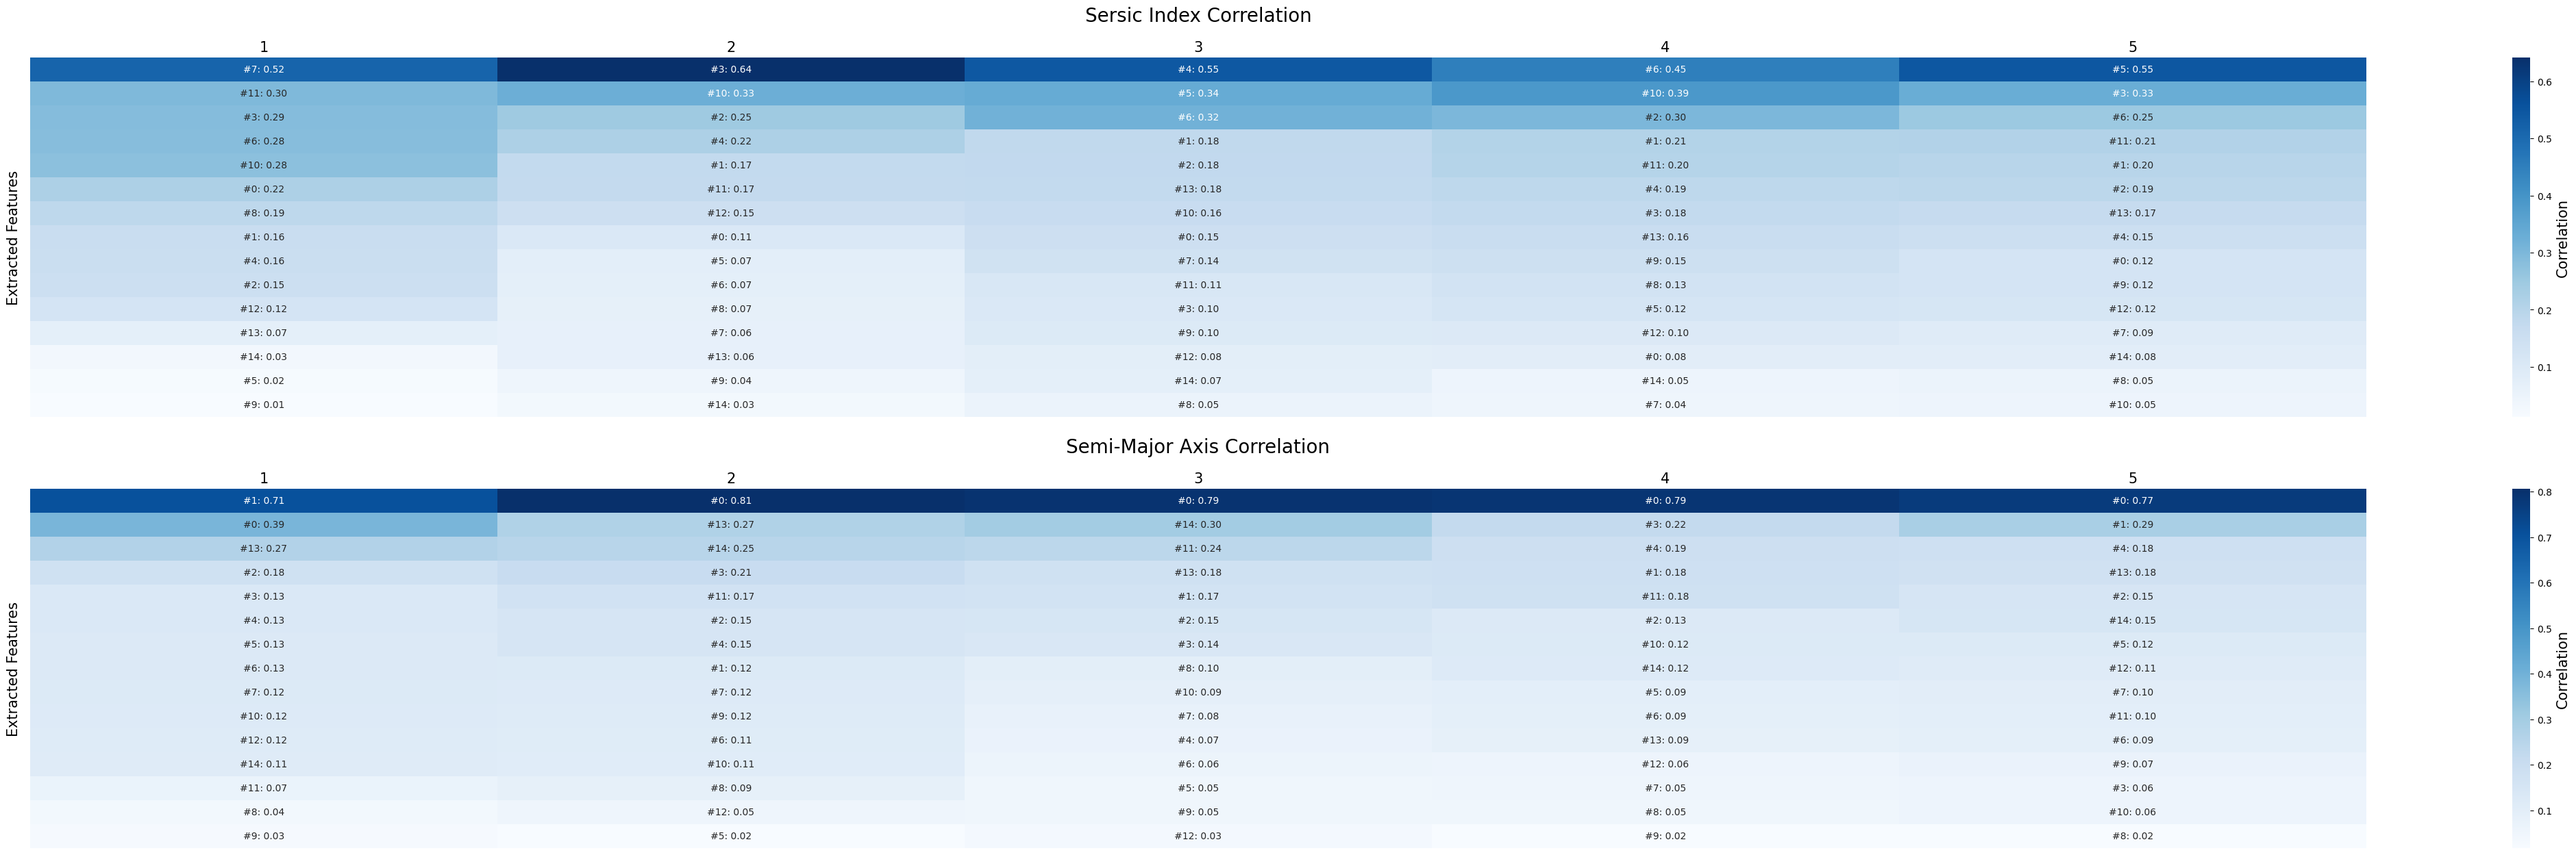
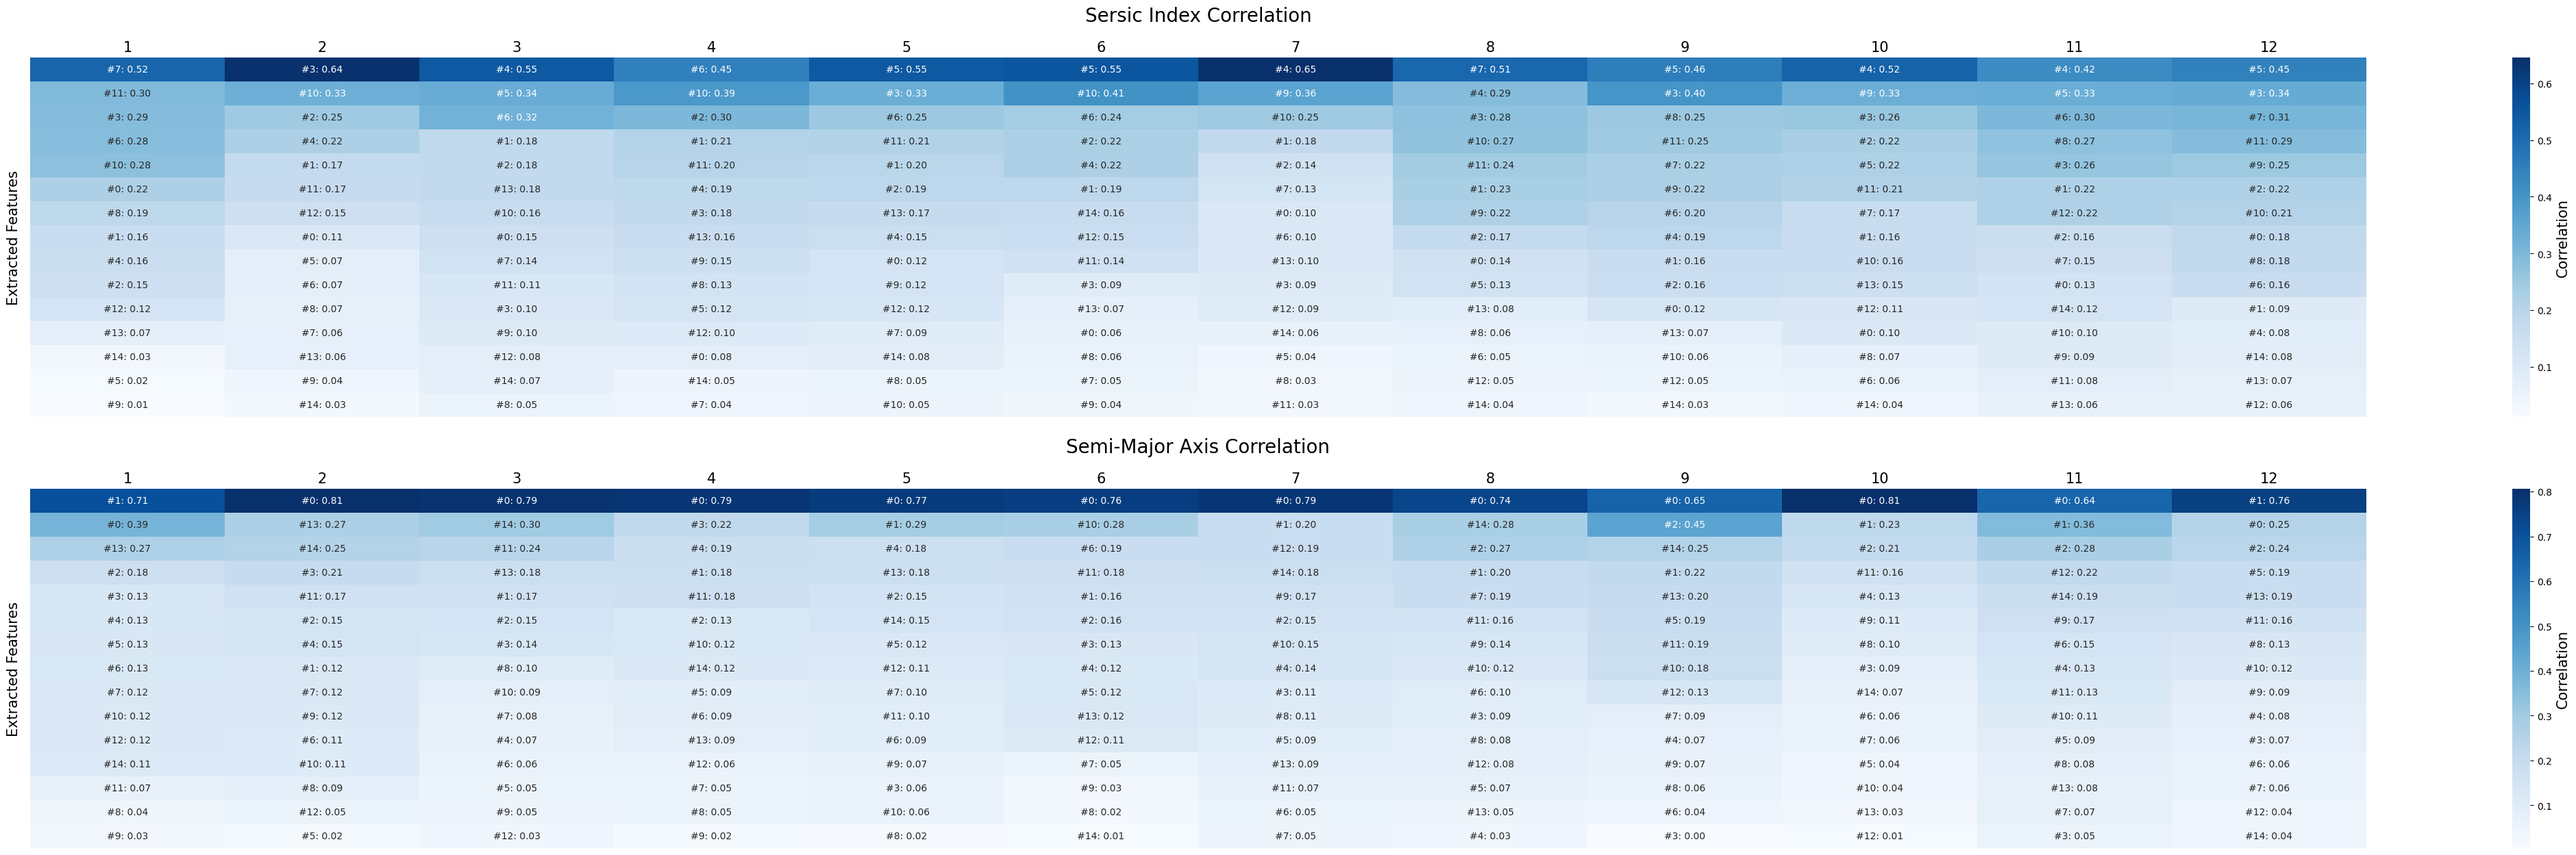
Code

diff --git a/correlation_flows.py b/correlation_flows.py
@@ -200,7 +200,7 @@ for feature in range(0, 15):
 
     correlation_list = []
 
-    for n_flows in [1, 2, 3, 4, 5]:
+    for n_flows in [1, 2, 3, 4, 5, 6, 7, 8, 9, 10, 11, 12]:
 
         extracted_features = np.load("Variational Eagle/Extracted Features/Normalising Flow/planar_new_latent_" + str(encoding_dim) + "_beta_" + beta_name + "_epoch_" + str(epochs) + "_flows_" + str(n_flows) + "_" + str(run) + "_default.npy")[0]
         # extracted_features = np.load("Variational Eagle/Extracted Features/Normalising Flow/planar_new_latent_" + str(encoding_dim) + "_beta_" + beta_name + "_epoch_" + str(epochs) + "_flows_" + str(n_flows) + "_" + str(run) + "_default_transformed.npy")
@@ -277,7 +277,7 @@ def wrap_labels(ax, width, break_long_words=False):
     # for label in ax.get_xticklabels():
         # text = label.get_text()
 
-    label_names = ["1", "2", "3", "4", "5"]
+    label_names = ["1", "2", "3", "4", "5", "6", "7", "8", "9", "10", "11", "12"]
 
     for text in label_names:
         labels.append(textwrap.fill(text, width=width, break_long_words=break_long_words))
@@ -294,14 +294,14 @@ wrap_labels(axs[0], 10)
 
 
 
-correlation_df = pd.DataFrame(columns=["1", "2", "3", "4", "5"])
+correlation_df = pd.DataFrame(columns=["1", "2", "3", "4", "5", "6", "7", "8", "9", "10", "11", "12"])
 
 # for feature in range(0, encoding_dim):
 for feature in range(0, 15):
 
     correlation_list = []
 
-    for n_flows in [1, 2, 3, 4, 5]:
+    for n_flows in [1, 2, 3, 4, 5, 6, 7, 8, 9, 10, 11, 12]:
 
         extracted_features = np.load("Variational Eagle/Extracted Features/Normalising Flow/planar_new_latent_" + str(encoding_dim) + "_beta_" + beta_name + "_epoch_" + str(epochs) + "_flows_" + str(n_flows) + "_" + str(run) + "_default.npy")[0]
         # extracted_features = np.load("Variational Eagle/Extracted Features/Normalising Flow/planar_new_latent_" + str(encoding_dim) + "_beta_" + beta_name + "_epoch_" + str(epochs) + "_flows_" + str(n_flows) + "_" + str(run) + "_default_transformed.npy")
@@ -379,7 +379,7 @@ def wrap_labels(ax, width, break_long_words=False):
     # for label in ax.get_xticklabels():
         # text = label.get_text()
 
-    label_names = ["1", "2", "3", "4", "5"]
+    label_names = ["1", "2", "3", "4", "5", "6", "7", "8", "9", "10", "11", "12"]
 
     for text in label_names:
         labels.append(textwrap.fill(text, width=width, break_long_words=break_long_words))

diff --git a/loss_flows.py b/loss_flows.py
@@ -156,6 +156,8 @@ for encoding_dim in [30]:
 
     for n_flows in [1, 2, 3, 4, 5, 6, 7, 8, 9, 10, 11, 12]:
 
+
+
         # Define VAE model with custom train step
         class VAE(Model):
 
@@ -215,6 +217,8 @@ for encoding_dim in [30]:
                 }
 
 
+
+
         # define sampling layer
         class Sampling(Layer):
 
@@ -249,6 +253,9 @@ for encoding_dim in [30]:
                 return z, sum_log_det_jacobian
 
 
+
+
+
         class PlanarFlow(Layer):
 
             def __init__(self, latent_dim, **kwargs):
@@ -281,6 +288,11 @@ for encoding_dim in [30]:
                 return z_transformed, log_det_jacobian
 
 
+
+
+
+
+
         # apply the flows to the latent vectors after training
         def apply_flows(z_mean, flows):
 
@@ -292,11 +304,17 @@ for encoding_dim in [30]:
             sum_log_det_jacobian = 0.0
 
             # apply the flows
-            for flow in self.flows:
+            for flow in flows:
                 z, log_det = flow(z)
                 sum_log_det_jacobian += log_det
 
             return z, sum_log_det_jacobian
+
+
+
+
+
+
 
 
         # Define keras tensor for the encoder
